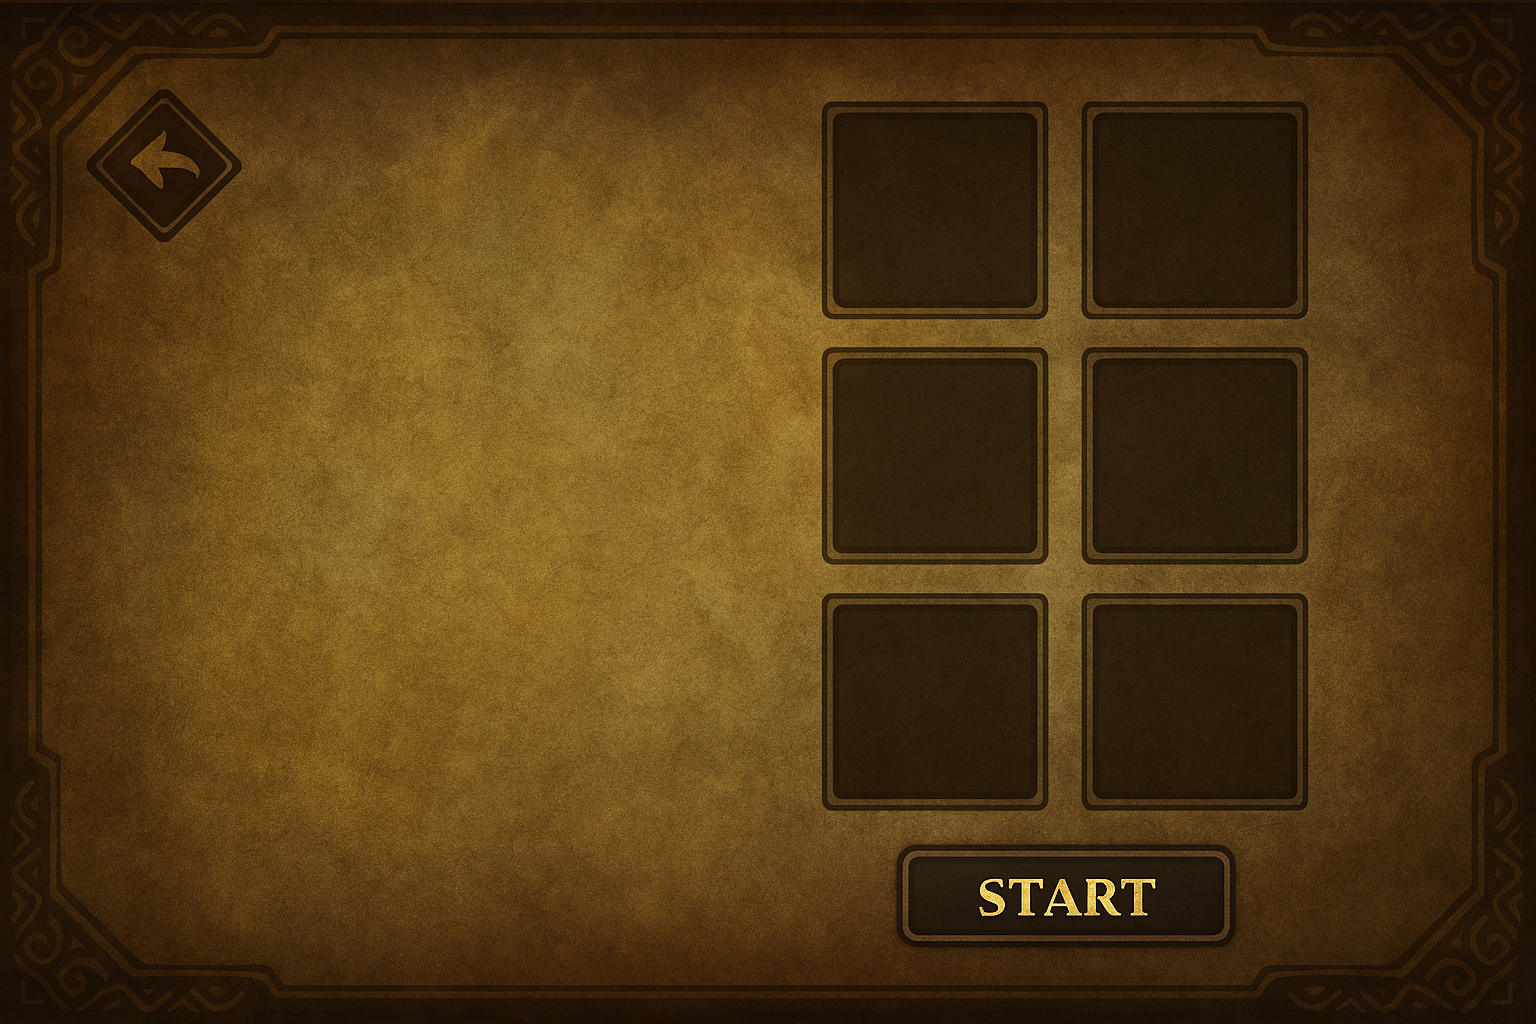
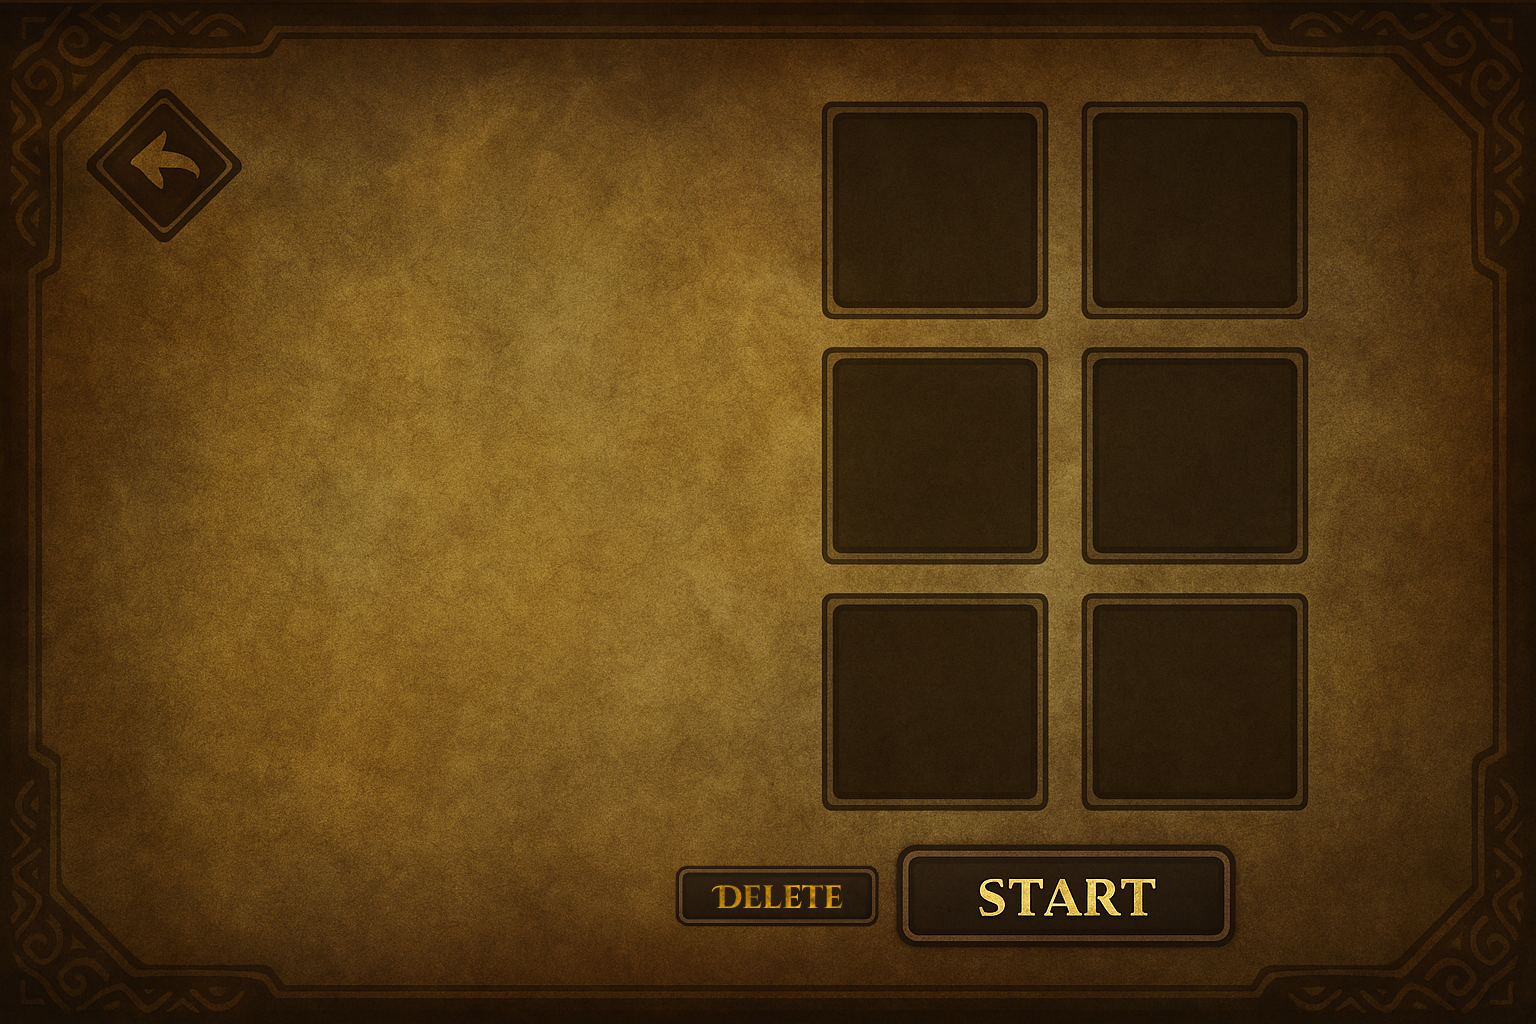
V0.0.01 - Delete Character, Mouse action for login.py etc

Changed region(s): [[0.4375, 0.8438, 0.5938, 0.9062]]

diff --git a/client/ui/character_selection.py b/client/ui/character_selection.py
@@ -1,4 +1,5 @@
 import pygame
+import json
 from client import config
 from client.ui.character_creation import CharacterCreation
 
@@ -25,13 +26,14 @@ class CharacterSelection:
             (0, 128, 0): "start_btn",
             (176, 224, 230): "slot",
             (255, 0, 0): "return_btn",
+            (0, 0, 255): "delete_btn",
         }
 
         # Build masks for clickable/highlightable regions
         self.masks = self._build_masks()
 
         # Focus order
-        self.focus_order = [f"slot{i}" for i in range(len(self.masks['slots']))] + ["start_btn", "return_btn"]
+        self.focus_order = [f"slot{i}" for i in range(len(self.masks['slots']))] + ["start_btn", "delete_btn", "return_btn"]
         self.active_field = self.focus_order[0]
 
     def _build_masks(self):
@@ -123,11 +125,26 @@ class CharacterSelection:
         for i, mask in enumerate(self.masks["slots"]):
             if mask.get_at((x, y)):
                 return f"slot{i}"
-        for name in ("start_btn", "return_btn"):
+        for name in ("start_btn", "delete_btn", "return_btn"):
             mask = self.masks.get(name)
             if mask.get_at((x, y)):
                 return name
         return None
+    
+    def _confirm_delete(self, name):
+        font = pygame.font.SysFont(config.FONT_NAME, 24)
+        text = font.render(f"Delete {name}? Y/N", True, (255, 0, 0))
+        self.screen.blit(text, (config.SCREEN_WIDTH//2 - text.get_width()//2,
+                                config.SCREEN_HEIGHT//2 - text.get_height()//2))
+        pygame.display.flip()
+
+        while True:
+            for event in pygame.event.get():
+                if event.type == pygame.KEYDOWN:
+                    if event.key == pygame.K_y:
+                        return True
+                    elif event.key == pygame.K_n:
+                        return False
 
     def _activate_field(self, field):
         if field.startswith("slot"):
@@ -160,6 +177,16 @@ class CharacterSelection:
 
         elif field == "return_btn":
             return "menu"
+        
+        elif field == "delete_btn":
+            if self.selected_slot is not None and self.selected_slot < len(self.characters):
+                char = self.characters[self.selected_slot]
+                confirm = self._confirm_delete(char["name"])  # optional popup confirm
+                if confirm:
+                    self.client.delete_character(char["id"])  # call server
+                    self.characters.pop(self.selected_slot)
+                    self.selected_slot = None
+            return None
 
     def run(self):
         clock = pygame.time.Clock()
@@ -169,6 +196,19 @@ class CharacterSelection:
                 if event.type == pygame.QUIT:
                     return None
                 elif event.type == pygame.KEYDOWN:
+                    if event.key == pygame.K_DELETE and self.selected_slot is not None:
+                        if self.selected_slot < len(self.characters):
+                            char = self.characters[self.selected_slot]
+                            self.client.send(json.dumps({
+                                "action": "delete_character",
+                                "char_id": char["id"]
+                            }))
+                            # Wait for server response (simplified)
+                            response = self.client.recv()
+                            if response.get("action") == "delete_character_ok":
+                                print(f"Deleted character {char['name']}")
+                                del self.characters[self.selected_slot]
+                                self.selected_slot = None
                     if event.key in (pygame.K_DOWN, pygame.K_TAB):
                         idx = self.focus_order.index(self.active_field)
                         self.active_field = self.focus_order[(idx + 1) % len(self.focus_order)]

diff --git a/client/ui/login.py b/client/ui/login.py
@@ -40,6 +40,8 @@ class Login:
         }
 
         # Extract bounding boxes for all fields/buttons in screen space
+        self.last_mouse_pos = pygame.mouse.get_pos() # Track last mouse pos
+        self.option_rects = []
         self.fields_rects = {}
         for color, name in self.color_map.items():
             rect = self._find_color_bounds(color)
@@ -184,6 +186,15 @@ class Login:
         while running:
             self.draw()
 
+            # Check mouse position for hover selection
+            mouse_pos = pygame.mouse.get_pos()
+            if mouse_pos != self.last_mouse_pos:
+                for i, (_, rect) in enumerate(self.option_rects):
+                    if rect.collidepoint(mouse_pos):
+                        self.selected_index = i
+                        break
+                self.last_mouse_pos = mouse_pos
+
             # Handle server responses
             if self.server_event.is_set():
                 action = self.server_action
@@ -246,6 +257,7 @@ class Login:
                             self.attempt_login()
                         elif self.active_field == "signup_btn":
                             print("Sign Up clicked")
+
                     else:
                         char = event.unicode
                         if char.isprintable():
@@ -253,6 +265,16 @@ class Login:
                                 self.username_text += char
                             elif self.active_field == "password" and len(self.password_text) < 22:
                                 self.password_text += char
+                                
+                elif event.type == pygame.MOUSEBUTTONDOWN and event.button == 1:
+                    mouse_pos = event.pos
+                    for name, rect in self.fields_rects.items():
+                        if rect.collidepoint(mouse_pos):
+                            self.active_field = name
+                            if name == "login_btn":
+                                self.attempt_login()
+                            elif name == "signup_btn":
+                                print("Sign Up clicked")
 
             clock.tick(config.FPS)
 

diff --git a/client/ui/setting_menu.py b/client/ui/setting_menu.py
@@ -15,11 +15,11 @@ class SettingsMenu:
         self.font = pygame.font.Font(font_path, max(20, int(config.SCREEN_HEIGHT * 0.04)))
 
         # Main options
-        self.options = ["Screen Mode", "Resolution", "Music", "Sound", "Restore Defaults", "Return to Title", "Apply Changes"]
+        self.options = ["Screen Mode", "Resolution", "Music", "Sound", "Return to Title", "Apply Changes"]
         self.selected_index = 0
 
         # Resolution choices
-        self.resolutions = [(800, 600), (1024, 768), (1280, 720), (1920, 1080)]
+        self.resolutions = [(800, 600), (1024, 768), (1280, 720), (1920, 1080), (2560, 1440)]
         self.current_resolution_index = next(
             (i for i, r in enumerate(self.resolutions) if r == (config.SCREEN_WIDTH, config.SCREEN_HEIGHT)), 0
         )
@@ -51,7 +51,7 @@ class SettingsMenu:
 
         # --- Boxed semi-transparent panel ---
         panel_width = int(config.SCREEN_WIDTH * 0.6)
-        panel_height = menu_height + 40                # Add padding top/bottom
+        panel_height = menu_height + 120                # Add padding top/bottom
         overlay = pygame.Surface((panel_width, panel_height), pygame.SRCALPHA)
         pygame.draw.rect(
         overlay,
@@ -71,10 +71,18 @@ class SettingsMenu:
             # Highlight selected option
             color = (50, 150, 255) if i == self.selected_index else (255, 255, 255)
             text_surface = self.font.render(option, True, color)
-            start_y = int(config.SCREEN_HEIGHT * 0.3)
+
+            # Compute y position
+            extra_spacing = 0
+            if option == "Apply Changes":
+                extra_spacing = 30
+
+            y_pos = start_y + i * spacing + extra_spacing
+            
             margin_x = int(config.SCREEN_WIDTH * 0.25)
+
             panel_right_x = int(config.SCREEN_WIDTH * 0.78)
-            rect = text_surface.get_rect(midleft=(margin_x, start_y + i * spacing))
+            rect = text_surface.get_rect(midleft=(margin_x, y_pos))
             self.screen.blit(text_surface, rect)
             self.option_rects.append((option, rect))
 

diff --git a/network/client.py b/network/client.py
@@ -20,6 +20,10 @@ class GameClient:
         self.recv_thread.start()
         print(f"[+] Connected to server {self.host}:{self.port}")
 
+    @property
+    def connected(self):
+        return self.sock is not None and self.running
+
     def _receive_loop(self):
         buffer = ""
         while self.running:
@@ -71,3 +75,12 @@ class GameClient:
         if self.sock:
             self.sock.close()
             self.sock = None
+
+    def delete_character(self, char_id):
+        if not self.connected:
+            self.connect()  # try to reconnect
+        self.send_json({
+            "action": "delete_character",
+            "char_id": char_id
+        })
+
